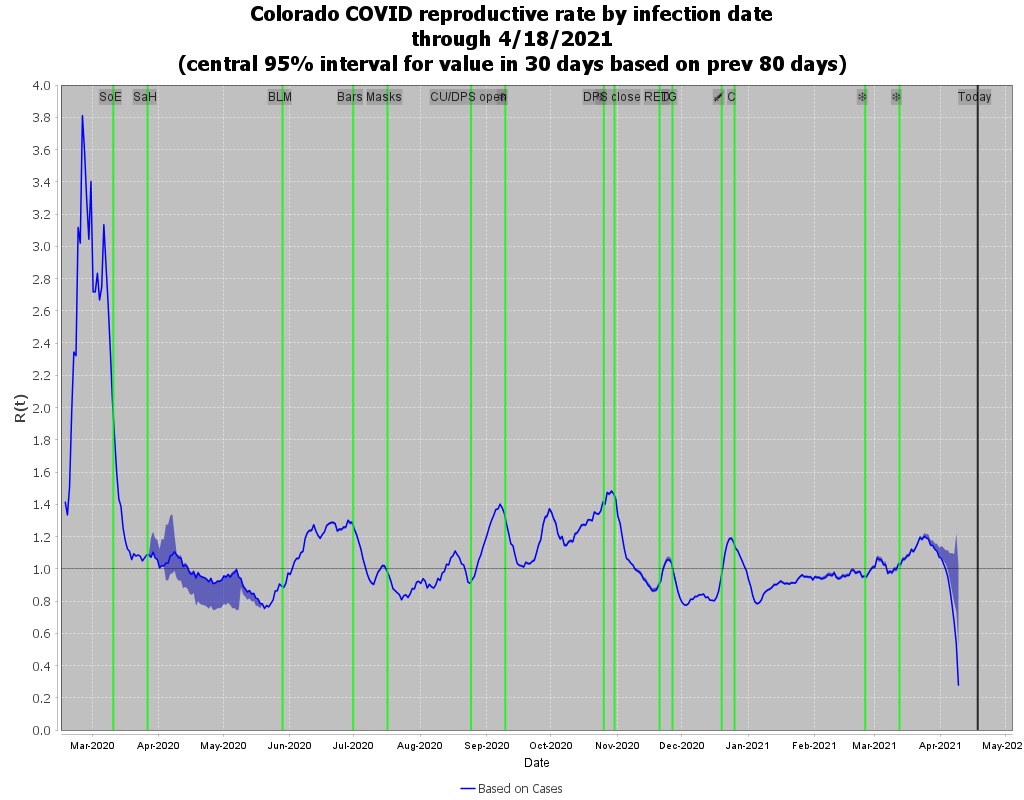
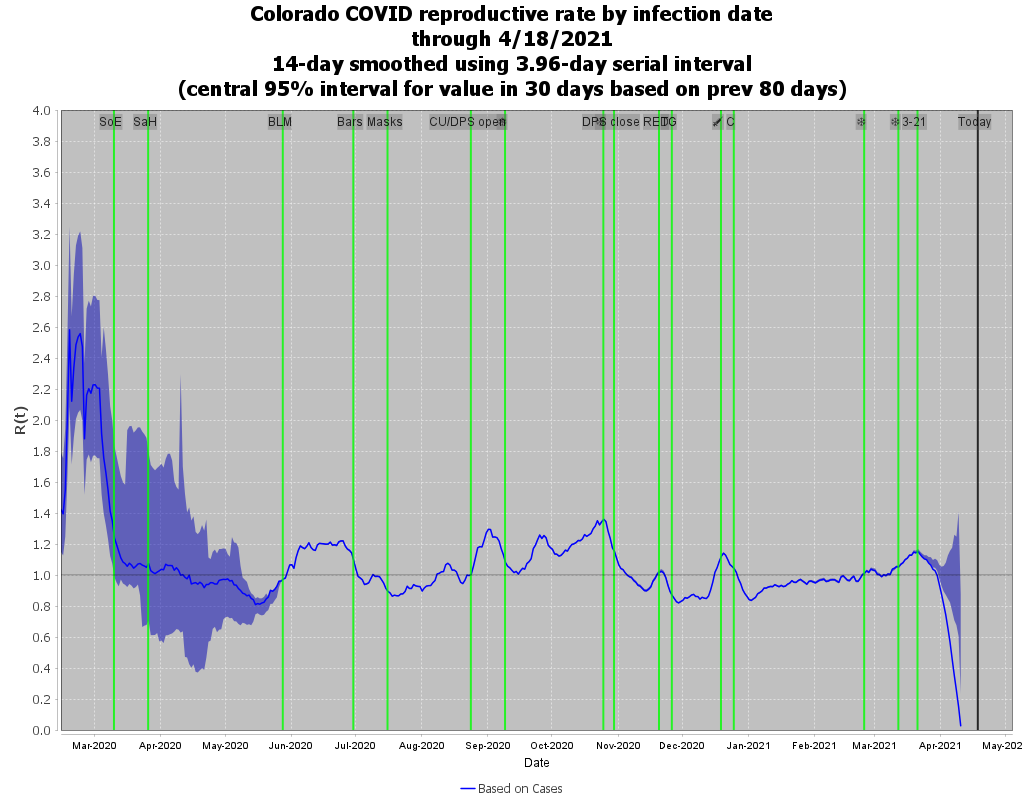
Change serial interval methodology.

diff --git a/README.md b/README.md
@@ -41,7 +41,7 @@ If we make a simple line graph of the data we want (cases, CFR, or R value for i
 
 Estimating test numbers by infection day is a completely unrelated calculation.  A negative test certainly has no onset/infection day, but to find positivity by onset/infection day we have to estimate one. To put it most simply: for each new day of data, the tests are distributed to an onset/infection day using the same distribution as the cases for that day-of-data have.   More technically, on each day of data, new cases are added for each day of infection, and new tests are added as just a single total for the day. A positivity value for that day of data can easily be calculated, and dividing the number of new cases for each day of infection by that positivity can give us an estimate of the tests for that day of infection.  This test value by itself isn't particularly noteworthy, though it is important that the total number of tests is not changed by this algorithm - we're simply moving from them around from the day of data to the day of infection.
 
-By comparison, R values are trivial to calculate.  Assuming a reproductive cycle length (serial interval) of exactly 5 days, the R value is just equal to the daily growth over a 5-day period.  We first smooth by taking a 7-day average of cases (either geometric or algebraic) - day-of-week variation from placeholders would otherwise dominate. The exact same method of finding confidence intervals is used for the reproductive, rates, and cases graphs.  Both intervals are symmetric.
+By comparison, R values are trivial to calculate, being just the case growth over the time period of the serial interval.  The serial interval is currently assumed at 3.96 days as per the arithmetic mean found [here](https://wwwnc.cdc.gov/eid/article/26/6/20-0357_article).  To use rational smoothing, the week before and after each day's total cases are used for a ratio, which is then exponentiated to SERIAL_INTERVAL/7.  By using weekly totals, day-of-week issues are minimized (these appear to still exist even in symptom onset data due to placeholders).  It is worth noting that the geometric serial interval is a fairly complex thing to calculate; it should not equal the arithmetic average of data points but should be solved for in an equivalent way to solving for the golden ratio from the Fibonacci sequence.  But the counter-point is that the serial interval doesn't really matter most of the time; we could just as easily use weekly growth rates instead of attempting to calculate an actual R value in most calculations.  R is useful in determining the effect of population immunity, however (R should decrease in a time period proportional to the percentage of previously susceptible people who are either recovered or finish vaccination in that time period, which could possibly be the target of a future graph).
 
 If you believe you should understand this explanation, but do not, I urge you to contact me with questions.  Mathematically, the workings here are intended to be intuitive and visualizable.  This is a model of how the numbers should work; there is no fitting to how they do work.  The only failure, I believe,  is that I should be tracking 95% confidence intervals rather than rolling averages.
 
